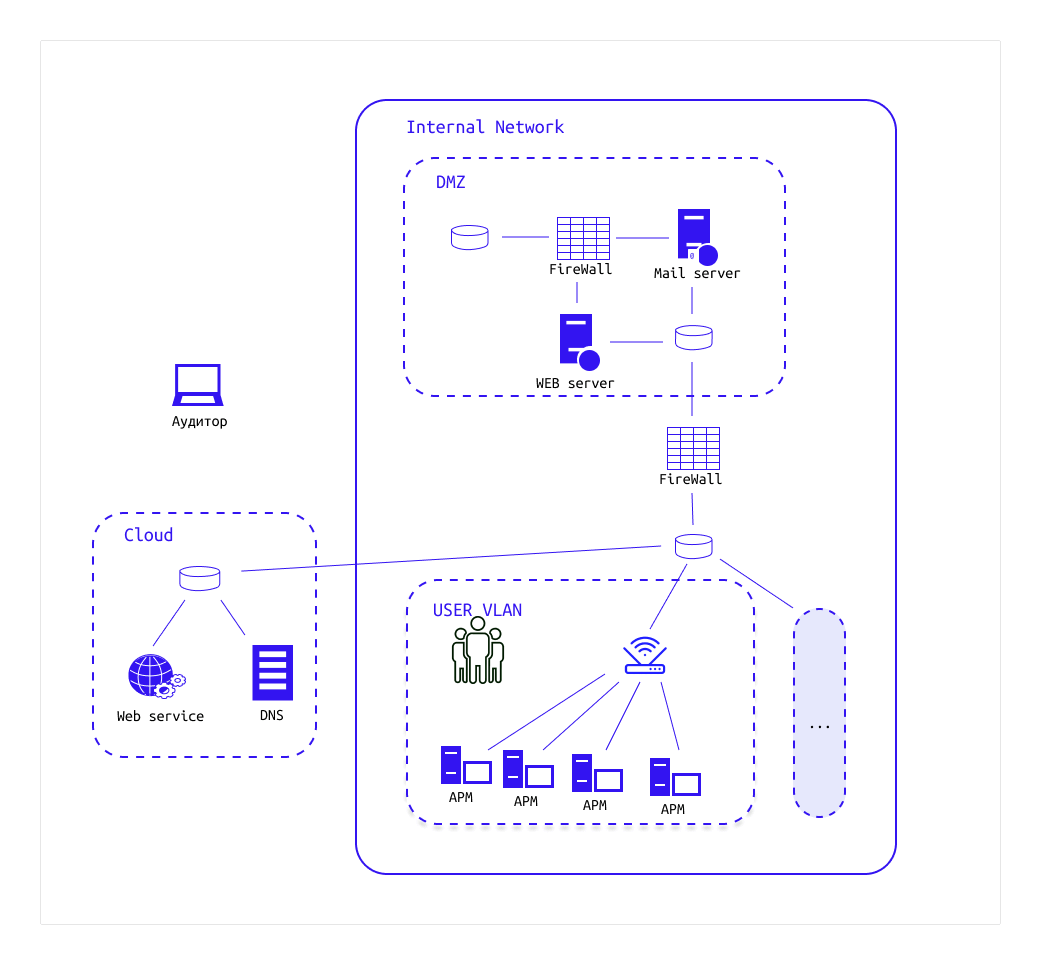
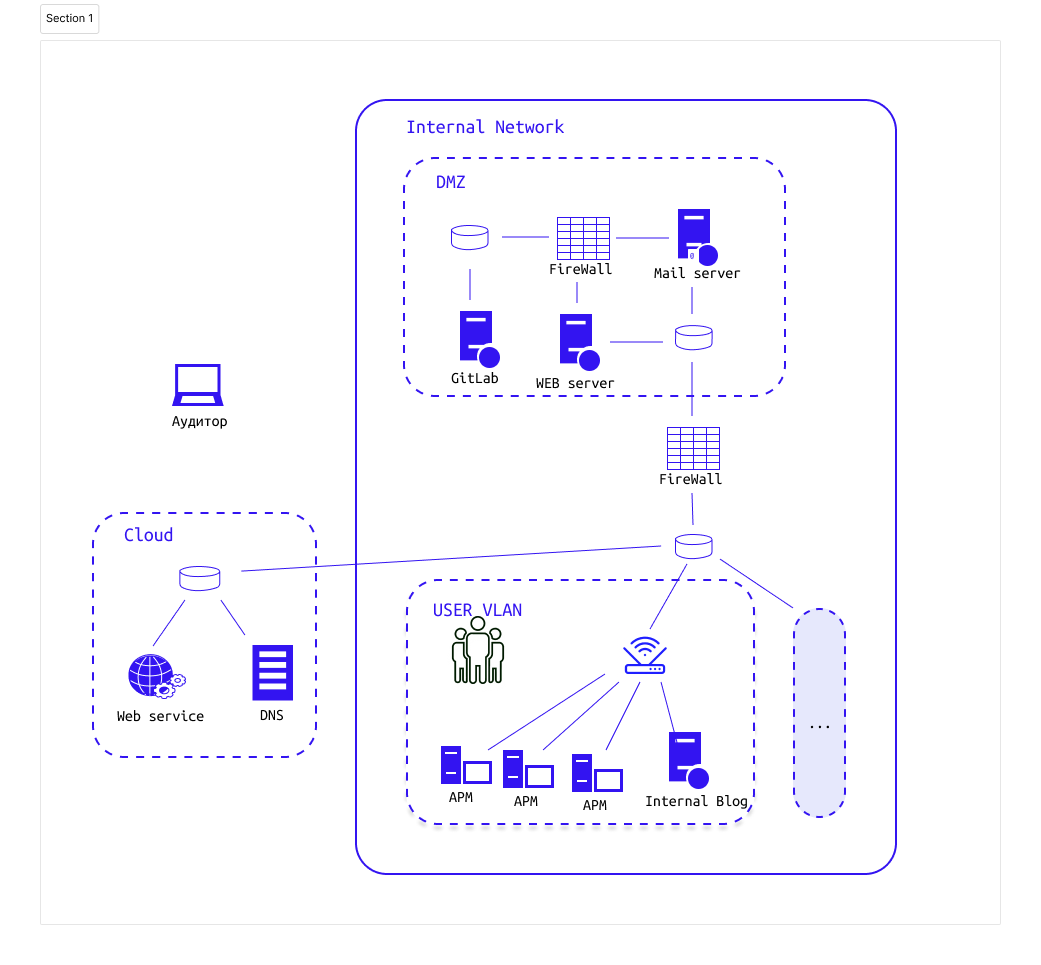
Update

Changed region(s): [[0.6148, 0.7461, 0.707, 0.8394], [0.4304, 0.3109, 0.4918, 0.4041], [0.0307, 0.0, 0.0922, 0.0311]]

diff --git a/Lab_1_2/README.md b/Lab_1_2/README.md
@@ -1,1 +1,108 @@
-README.md
+# Lab_1_2 Анализ доменных имен
+
+### Анализ доменных имен
+
+Большинство организаций управляют своей ИТ-инфраструктурой, как публичной, так и внутренней, именуя ее логически и на основе мнемонических (легко запоминаемых) имен. Каждый узел сети охарактеризован адресом, по которому к узлу можно обратиться. Для того, чтобы удобно, по памяти, даже при смене адреса, обращаться к определенному узлу сети, таким узлам дают доменные имена.
+
+Из-за такой распространенной практики злоумышленники могут обнаружить все связанные с организацией ИТ-активы и впоследствии атаковать их. В свою очередь, белые хакеры могут имитировать эту деятельность: для того, чтобы показать организации, как много о ней могут узнать злоумышленники.
+
+С высокой вероятностью все имена узлов, принадлежащих компании ООО "Компания" с сайтом company.corp, будут располагаться в доменах 3-го уровня домена company.corp. 
+
+Домен 3-го уровня – это часть доменного имени, расположенная перед доменным именем второго уровня. Например, часть "blog" в "blog.example.com" является доменом 3-го уровня, а "example.com" является доменом 2-го уровня. Они могут использоваться для разных целей, но выбор доменного имени зависит от намерений и потребностей владельца.
+
+Например:
+
+- web.company.corp
+- mail.company.corp
+- support.company.corp
+- portal.company.corp
+- moscow.company.corp
+
+Таким образом, зная доменное имя 2-го уровня, мы можем попытаться найти массу имен 3-го уровня, которые будут ссылать нас на неизвестные нам ранее узлы инфраструктуры организации.
+
+### Поиск доменных имен, принадлежащих организации
+
+Вначале мы можем не знать, какие вообще доменные имена 2-го уровня принадлежат организации. Самый простой способ в этом случае: воспользоваться поисковыми сервисами и попытаться найти сайты организации, которые она сама о себе публикует. 
+
+> Единственной проблемой на этом этапе может стать ситуация, когда вы можете неправильно определить сайт организации. Это зависит только от вашей насмотренности и умения выявить контактные данные или идентификаторы организации, которые относятся именно к вашей цели.
+
+Дополнительно, существуют системы закрытые и открытые, которые собирают информацию о зарегистрированных организацией доменных именах и могут вам сообщить о них. 
+
+Это могут быть следующие организации и сервисы:
+
+**Whois** – это протокол поиска информации о зарегистрированных доменных именах, IP-адресах и автономных системах. Утилита whois является встроенной утилитой терминальной оболочки многих дистрибутивов операционных систем, таких как MacOS и Ubuntu Linux.
+
+**СПАРК** (https://spark-interfax.ru/) – это система, собирающая всю доступную информацию о компаниях и извлекая из нее знания, помогает получать подробную информацию о бизнесе организаций и о привязанных к нему информационных активах, сайтах и доменных именах.
+
+**RIPE** (Réseaux IP Européens) – это некоммерческая организация, которая занимается управлением и распределением ресурсов IP-адресации и автономных систем в странах Европы, Ближнего Востока и Центральной Азии. На ее сайте https://apps.db.ripe.net/db-web-ui/fulltextsearch можно найти различные данные (включая доменные имена), связанные с владельцем выделенных ему сегментов IP-адресов.
+
+### Поиск доменных имен и поддоменов
+
+Поиск доменных имен заключается в способах подбора, предугадывания а также сбора из открытых источников доменных имен организации и делится на активный и пассивный методы.
+
+### Методы активного поиска доменных имен и поддоменов
+
+Данный метод подразумевает активное взаимодействие с DNS-cервисом организации, т.е. выполнение запросов  непосредственно к инфраструктуре, принадлежащей, арендуемой или управляемой целевой организацией.
+
+Получение информации о доменных именах и поддоменах от DNS-сервиса организации возможно следующими способами (не ограничиваясь ими):
+
+1. Опрашивание DNS сервиса на известные ему записи раскрывающие доменные имена, связанные с доменом 2-го уровня. Т.е. выполнение запросов к таким DNS записям, как: CNAME, MX, NS, SRV и т.д. [Подробнее](https://ru.wikipedia.org/wiki/%D0%A2%D0%B8%D0%BF%D1%8B_%D1%80%D0%B5%D1%81%D1%83%D1%80%D1%81%D0%BD%D1%8B%D1%85_%D0%B7%D0%B0%D0%BF%D0%B8%D1%81%D0%B5%D0%B9_DNS)
+
+- A – используется для указания доменного имени, например, testdomain.com, на IP-адрес его хост-сервера;
+- MX – записи, отвечающие за обмен электронной почтой;
+- NS – предназначены для идентификации DNS-серверов, ответственных за домен;
+- SRV – записи для выделения службы, размещенной на определенных серверах;
+- PTR – обратный поиск DNS: с помощью IP вы можете получить связанный с ним домен;
+- SOA – начало записи: это информация о зоне DNS и других записях DNS;
+- CNAME – сопоставляет целевое доменное имя с другим доменным именем.
+
+Чтобы получить записи всех типов можно использовать тип запроса ANY.
+
+Пример выполнения запроса: `nslookup -q=ANY example.com ns.example.com`
+
+2. Перебор доменных имен на DNS сервисе компании при помощи использования словарей или правил мутации. В данном случае мы заранее подготавливаем большой список слов и возможных поддоменов и опрашиваем DNS сервис в формате слово.example.com, чтобы выявить все имена, которые существуют в инфраструктуре организации.
+
+Пример использования утилиты subfinder со стандартным словарем для перебора доменных имен:  
+
+`subfinder -d ya.ru`
+
+3. Выполнение запроса AXFR. AXFR запрос, или Zone transfer — это процесс передачи копии базы данных с DNS-зоной от главного сервера к вторичному. В идеале трансфер зоны ограничен только для определенных доверенных серверов, но неправильно сконфигурированные серверы разрешают трансферы любому, кто их попросит.
+
+Пример выполнения такого запроса: `nslookup -q=AXFR example.com` (зачастую требует указания конкретного DNS-сервера, к которому будет отправлен запрос).
+
+Другие примеры инструментов активного поиска:
+
+- amass — многофункциональный инструмент для разведки
+- Sublist3r — OSINT инструмент поиска поддоменов 
+- assetfinder — пассивный сканер поддоменов на Go
+
+### Методы пассивного поиска доменных имен и поддоменов
+
+Методы пассивного поиска сводятся к использованию каких либо служб и сайтов, которые произвели активный поиск за нас или агрегировали известную информацию среди открытых источников. Есть множество веб-сайтов и служб, которые предлагают такие услуги в разной форме. 
+
+Примеры:
+
+- dnsdumpster.com
+- shodan.io
+- censys.io
+- crt.sh
+- pentest-tools.com
+
+Наша цель в типовой инфраструктуре
+
+![Alt text](<1-2.png>)
+
+# Задание
+
+> Story: Вы заключили договор на пентест с компанией "Codovix" и можете приступать к работам. Для начала стоит провести разведку во внешней сети - доменного имени. 
+
+Необходимо:
+1. Выполнить поиск подсказки в ТХТ записи доменного имени с помощью утилит dig, nslookup, host
+2. Использовать подсказку для подготовки финального словаря паролей
+3. Составить мини-отчет, где указать использованные подходы и затронутые угрозы безопасности. Отчет должен содержать название уязвимости, описание уязвимости, пример её эксплуатации, рекомендации к устранению
+
+# Теоретические вопросы
+
+- Что такое доменное имя?
+- Объясните разницу в уровнях доменных имен.
+- Какие бывают типы записей?

diff --git a/Lab_1_1/README.md b/Lab_1_1/README.md
@@ -52,16 +52,14 @@
 
 ### Наша цель в типовой инфраструктуре
 
-![Alt text](<Section 1 (1).png>)
+![Alt text](<1-1.png>)
 
 # Задание
-
-[Ссылка на lab_1.ova]()
 
 > Story: Вы заключили договор на пентест с компанией "Кодовикс" и можете приступать к работам. Для начала стоит провести разведку во внешней сети. 
 
 Необходимо:
-1. Скачать образ kali linux и запустить в консоли `echo "nameserver 127.0.0.1" | sudo tee /etc/resolv.conf`
+1. Скачать образ kali linux [lab.ova]() и запустить в консоли `echo "nameserver 127.0.0.1" | sudo tee /etc/resolv.conf`
 2. Выполнить пассивный поиск ресурсов организации codovix.ru (поиск аккаунтов сотрудников методом OSINT)
 3. Собрать полезную информацию о сотрудниках для следующего этапа пентеста (составить 2 парольных словаря - в которых будут все комбинации из 5 слов с сохранением регистра, без пробелов между словами)
 4. Составить мини-отчет, где указать использованные подходы и затронутые угрозы безопасности. Отчет должен содержать название уязвимости, описание уязвимости, пример её эксплуатации, рекомендации к устранению
